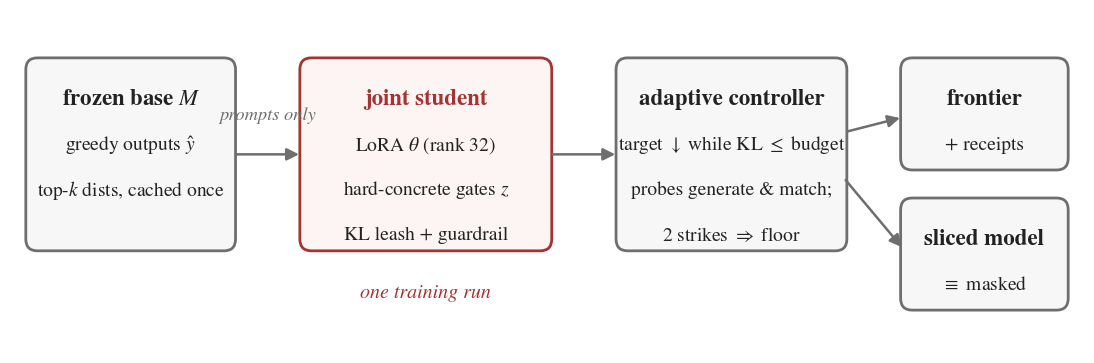
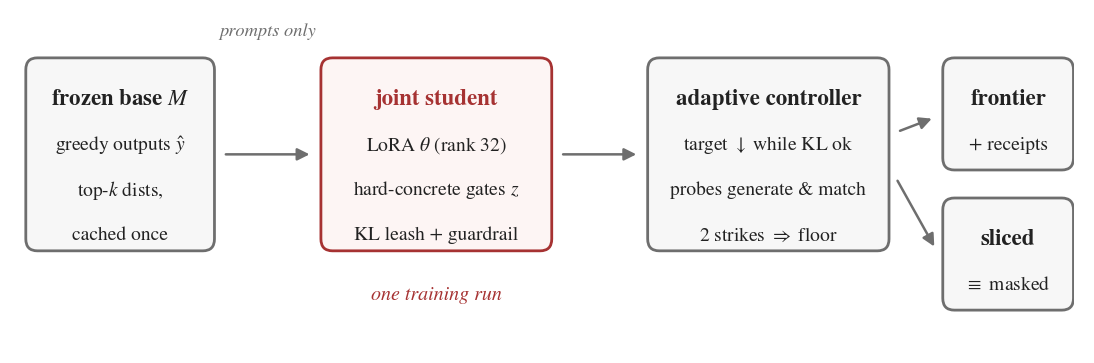
Fix method diagram text/box collisions

diff --git a/paper/make_figures.py b/paper/make_figures.py
@@ -81,21 +81,21 @@ def fig_method():
             ax.text((x1 + x2) / 2, max(y1, y2) + dy, label, ha="center",
                     fontsize=6.6, color=GRAY, style="italic")
 
-    box(1, 9, 19, 17, "frozen base $M$",
-        ["greedy outputs $\\hat{y}$", "top-$k$ dists, cached once"])
-    box(27, 9, 23, 17, "joint student", ["LoRA $\\theta$ (rank 32)",
+    box(1, 9, 17, 17, "frozen base $M$",
+        ["greedy outputs $\\hat{y}$", "top-$k$ dists,", "cached once"])
+    box(29, 9, 21, 17, "joint student", ["LoRA $\\theta$ (rank 32)",
         "hard-concrete gates $z$", "KL leash + guardrail"], accent=True)
-    box(57, 9, 21, 17, "adaptive controller",
-        ["target $\\downarrow$ while KL $\\leq$ budget",
-         "probes generate & match;", "2 strikes $\\Rightarrow$ floor"])
-    box(84, 16.5, 15, 9.5, "frontier", ["+ receipts"])
-    box(84, 3.5, 15, 9.5, "sliced model", ["$\\equiv$ masked"])
+    box(60, 9, 22, 17, "adaptive controller",
+        ["target $\\downarrow$ while KL ok",
+         "probes generate & match", "2 strikes $\\Rightarrow$ floor"])
+    box(88, 16.5, 11.5, 9.5, "frontier", ["+ receipts"])
+    box(88, 3.5, 11.5, 9.5, "sliced", ["$\\equiv$ masked"])
 
-    arrow(20, 17.5, 27, 17.5, "prompts only", 3.2)
-    arrow(50, 17.5, 57, 17.5)
-    arrow(78, 19.5, 84, 21)
-    arrow(78, 15.5, 84, 8.5)
-    ax.text(38.5, 4.2, "one training run", ha="center", fontsize=7.2,
+    arrow(19, 17.5, 28, 17.5, "prompts only", 11.0)
+    arrow(51, 17.5, 59, 17.5)
+    arrow(83, 19.5, 87, 21)
+    arrow(83, 15.5, 87, 8.5)
+    ax.text(39.5, 4.0, "one training run", ha="center", fontsize=7.2,
             color=RED, style="italic")
     save(fig, "method")
 